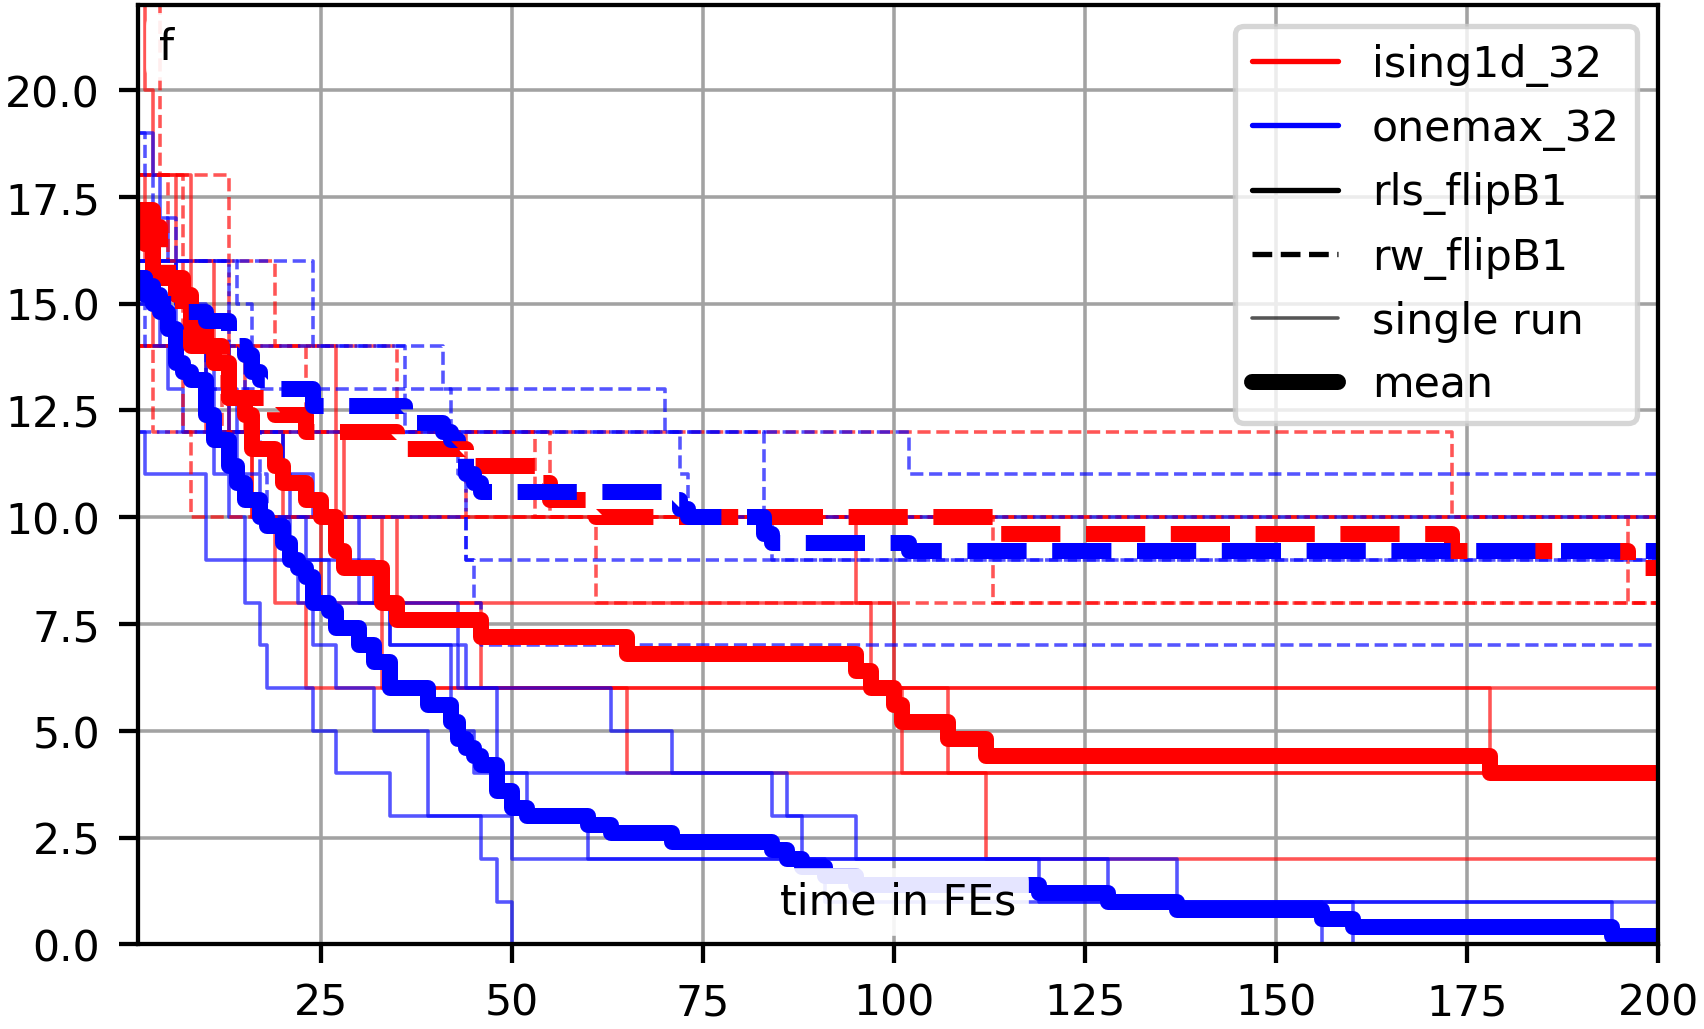
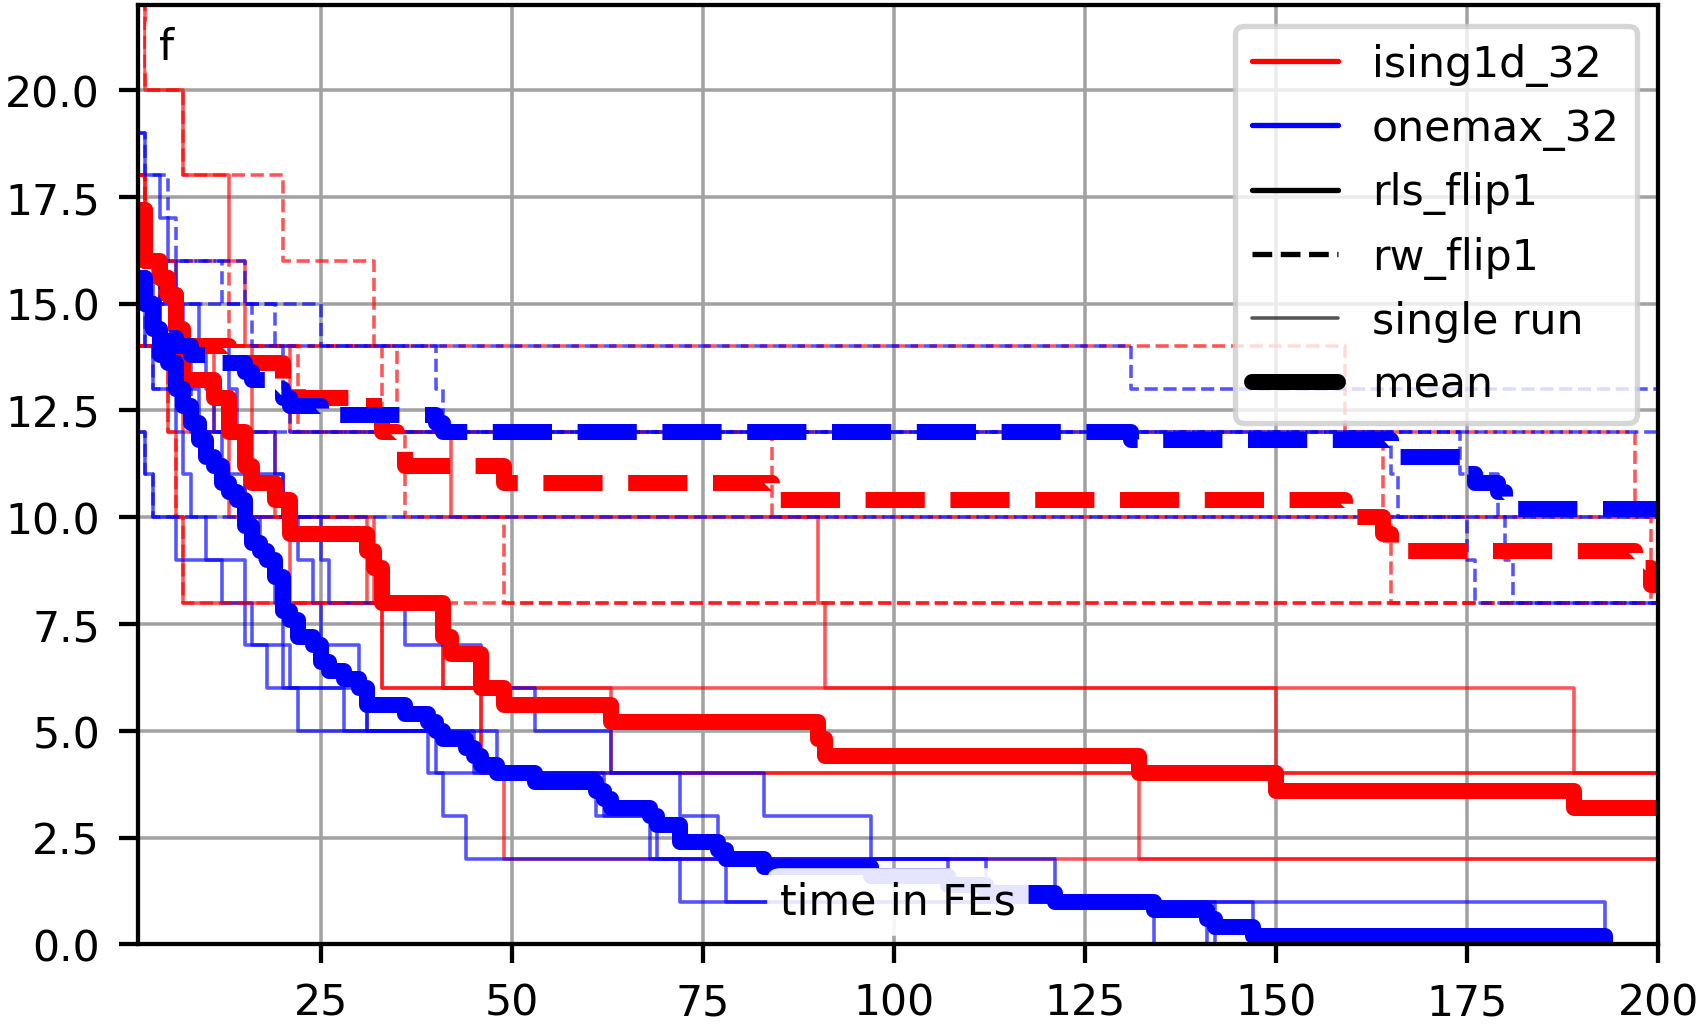
further improvements and added ERT plot example

diff --git a/examples/ert_plot.py b/examples/ert_plot.py
@@ -1,57 +1,40 @@
 """
-We execute an experiment with 2 algorithms on 1 problem and plot the ECDFs.
+We execute an experiment with 2 algorithms on 1 problem and plot the ERTs.
 
-An ECDF plot illustrates the fraction of problem instances that an algorithm
-has solved over time.
-Its highest value is 1, its lowest value is 0.
-If you execute 10 runs of your algorithm on two problems each, the ECDF curves
-can take on (2*10 + 1) = 21 different values from [0, 1].
-If all of your runs succeed in reaching the goal objective value and the
-slowest run does so after T2 time units, then the ECDF becomes 1 for time=T2.
-The ECDF remains 0 until the time T1 when the fastest run has solved its
-corresponding problem instance.
-Between T1 and T2, the ECDF is monotonously rising.
+The (empiricially estimated) Expected Running Time - or ERT for short - gives
+us an impression how long an optimization algorithm will need to reach a
+certain goal quality for a given optimization problem instance.
 
-If can happen that an ECDF never reaches 1.
-For example, in our two-problem situation described above, it could be that
-our algorithm can only solve the first problem (all 10 runs succeed), but
-never the second problem (all 10 runs fail).
-Then, the ECDF will reach 0.5 but no higher value.
+If we apply an algorithm once to a problem instance, it will randomly start
+at a rather bad solution quality. It will then step by step improve. We can
+log each improvement in a log file. If we conduct multiple runs of the
+algorithm, we will collect multiple log files from them. For each objective
+value `f` that was reached by any of the runs, we can compute the arithmetic
+mean that it took them to do so. This works well as long as all runs can
+reach `f`. However, especially for better (i.e., small) values of `f`, some
+runs may fail to do so. These runs stop improving earlier. The arithmetic
+mean of the time to read these `f` would go to infinity.
 
-Of course, an algorithm is the better, the faster its ECDF rises and the
-higher it rises.
-In other words, the bigger the area under the ECDF curve, the better.
+Luckily, we can do better than that. We can simply assume that once an
+unsuccessful run terminates, we would directly start a new run afterwards.
+If at least one run in our experiment was successful, this means that the
+probability to reach `f` is larger than zero and if we imagine that we
+keep starting new runs again and again, we will eventually succeed. This is
+the idea behind the ERT. For any goal `f`, it is computed as
 
-There are four tools involved in creating such diagrams:
+  `ERT[f] = Time(fbest >= f) / s`
 
-The module `moptipy.utils.plot_utils` provides the functions for allocating
-and storing figures (named `create_figure` and `save_figure`).
+where `s` is the number of successful runs, i.e., of runs that reached the
+goal `f` and `Time(fbest >= f)` is the sum of the runtime of all runs that
+was spent until the objective value reached `f` (or the run terminated).
 
-The module `moptipy.evaluation.progress` includes the class `Progress`.
-An instance `Progress` represents a two-dimensional progress curve of a
-single run.
-Its time dimensions can either be `FEs` or `ms`. In the former case, it
-records the time in objective function evaluations (FEs) and in the latter
-case, it records them in milliseconds.
-Its objective dimension can either be `plainF`, `scaledF` or `normalizedF`,
-but for ECDFs, we would usually keep them `plainF`.
+An ERT plot plots the ERT for all objective values `f` encountered during
+a set of runs. It is therefore a curve that grows for shrinking `f`.
 
-The module `moptipy.evaluation.ecdf` includes the class `Ecdf`.
-An instance `Ecdf` represents a two-dimensional ECDF curve.
-It can be constructed from a selection of `Progress` objects.
-Matter of fact, a whole sequence of ECDF curves can automatically be
-generated from a sequence of `Progress` objects, which are automatically
-grouped by algorithm.
-
-Finally, the module `moptipy.evaluation.plot_ecdf_impl` provides the
-function `plot_ecdf`. This function accepts a sequence contain `Ecdf` objects
-and illustrates them automatically. It will automatically choose axis labels,
-colors, and group and order the data in a way that it deems reasonable.
-
-In this file, we will use all the above tools.
-We will run a small experiment, parse the resulting log files, and then
-illustrate different groupings and selections of the data.
-We will create svg figures and open them in the web browser for viewing.
+In this example, we apply both a randomized local search and a random walk
+to the 12-bit OneMax problem. We grant each of them 100 FEs and perform
+21 runs per setup. We then plot the ERT in terms of the expected number of
+objective function evaluations (FEs) over the objective values (`f`).
 """
 import os
 from time import sleep
@@ -64,8 +47,8 @@ from moptipy.algorithms.rls import RLS
 from moptipy.api.execution import Execution
 from moptipy.api.experiment import run_experiment
 from moptipy.evaluation.axis_ranger import AxisRanger
-from moptipy.evaluation.ecdf import Ecdf
-from moptipy.evaluation.plot_ecdf_impl import plot_ecdf
+from moptipy.evaluation.ert import Ert
+from moptipy.evaluation.plot_ert_impl import plot_ert
 from moptipy.evaluation.progress import Progress
 from moptipy.examples.bitstrings.onemax import OneMax
 from moptipy.operators.bitstrings.op0_random import Op0Random
@@ -84,8 +67,8 @@ ns = lambda prc: False if prc is None else (  # noqa: E731
 # should we show the plots?
 SHOW_PLOTS_IN_BROWSER = not ns(psutil.Process(os.getppid()))
 
-# We try to solve only the 8-bit OneMax problem
-problems = [lambda: OneMax(8)]
+# We try to solve only the 16-bit OneMax problem
+problems = [lambda: OneMax(16)]
 
 
 def make_rls(problem) -> Execution:
@@ -100,8 +83,8 @@ def make_rls(problem) -> Execution:
     ex.set_objective(problem)
     ex.set_algorithm(RLS(  # create RLS that
         Op0Random(),  # starts with a random bit string and
-        Op1Flip1()))  # flip exactly one bit
-    ex.set_max_fes(256)  # permit 256 FEs
+        Op1Flip1()))  # flips exactly one bit
+    ex.set_max_fes(100)  # the maximum FEs
     ex.set_log_improvements(True)  # log the progress!
     return ex
 
@@ -120,7 +103,7 @@ def make_random_walk(problem) -> Execution:
         RandomWalk(  # create a random walk that
             Op0Random(),  # starts with a random bit string and
             Op1Flip1()))  # flip exactly one bit
-    ex.set_max_fes(256)  # permit 256 FEs
+    ex.set_max_fes(100)  # the maximum FEs
     ex.set_log_improvements(True)  # log the progress!
     return ex
 
@@ -134,7 +117,7 @@ with TempDir.create() as td:  # create temporary directory `td`
                    instances=problems,  # define the problem instances
                    setups=[make_rls,  # provide RLS run creator
                            make_random_walk],  # provide random walk creator
-                   n_runs=31,  # we will execute 31 runs per setup
+                   n_runs=21,  # we will execute 71 runs per setup
                    n_threads=1)  # we use only a single thread here
     # Once we arrived here, the experiment with 2*1*31 = 62 runs has completed.
 
@@ -143,18 +126,16 @@ with TempDir.create() as td:  # create temporary directory `td`
                        consumer=data.append,  # put the data into data
                        time_unit="FEs",  # time is in FEs (as opposed to "ms")
                        f_name="plainF")  # use raw, unscaled objective values
-    ecdf = []  # we will load the ECDFs into this list
-    # The below function uses the goal objective values from the log files to
-    # compute the ECDF functions. It groups all runs of one algorithm together
-    # and then computes the algorithm's overall ECDF.
-    Ecdf.from_progresses(data, ecdf.append)
+    ert = []  # we will load the ERT into this list
+    # The below function groups all runs of one algorithm and instance
+    # together and then computes the ERT.
+    Ert.from_progresses(data, ert.append)
 
-    # Plot the ECDF functions.
+    # Plot the ERT functions.
     # This function will automatically pick the labels of the axes and choose
     # that the horizontal axis (FEs) be log-scaled.
     fig = create_figure(width=4)  # create an empty, 4"-wide figure
-    plot_ecdf(ecdfs=ecdf,  # plot all the data
-              figure=fig)  # into the figure
+    plot_ert(erts=ert, figure=fig)  # plot all the data into the figure
     # Notice that save_figure returns a list of files that has been generated.
     # You can specify multiple formats, e.g., ("svg", "pdf", "png") and get
     # multiple files.
@@ -163,24 +144,23 @@ with TempDir.create() as td:  # create temporary directory `td`
     # other files we generate to this list and, in the end, display all of them
     # in the web browser.
     files = save_figure(fig=fig,  # store fig to a file
-                        file_name="ecdf_over_log_fes",  # base name
+                        file_name="log_ert_over_f",  # base name
                         dir_name=td,  # store graphic in temp dir
                         formats=("svg", "png", "pdf"))  # file types
     del fig  # dispose figure
 
     # Plot the ECDF functions, but this time do not log-scale the x-axis.
     fig = create_figure(width=4)  # create an empty, 4"-wide figure
-    plot_ecdf(ecdfs=ecdf,  # plot all the data
-              figure=fig,  # into the figure
-              x_axis=AxisRanger.for_axis("FEs", log_scale=False))
+    plot_ert(erts=ert, figure=fig,  # plot all the data into the figure
+             y_axis=AxisRanger.for_axis("FEs", log_scale=False))
     # This time, we save the image only as svg.
     files.extend(save_figure(fig=fig,  # store fig to a file
-                             file_name="ecdf_over_fes",  # base name
+                             file_name="ert_over_fes",  # base name
                              dir_name=td,  # store graphic in temp dir
                              formats="svg"))  # file type: this time only svg
     del fig  # dispose figure
 
-    # OK, we have now plotted a set of different ECDF plots.
+    # OK, we have now plotted a set of different ERT plots.
     # We will open them in the web browser if we are not in a make build.
     if SHOW_PLOTS_IN_BROWSER:
         for file in files:  # for each file we generated

diff --git a/moptipy/evaluation/plot_ert_impl.py b/moptipy/evaluation/plot_ert_impl.py
@@ -36,10 +36,10 @@ def plot_ert(erts: Iterable[Ert],
              pd.importance_to_font_size,
              xgrid: bool = True,
              ygrid: bool = True,
-             xlabel: Union[None, str, Callable[[str], str]] = lambda x: x[0],
+             xlabel: Union[None, str, Callable[[str], str]] = Lang.translate,
              xlabel_inside: bool = True,
              ylabel: Union[None, str, Callable[[str], str]] =
-             Lang.translate_func("ECDF"),
+             Lang.translate_func("ERT"),
              ylabel_inside: bool = True,
              inst_priority: float = 0.666,
              algo_priority: float = 0.333) -> None:
@@ -116,10 +116,10 @@ def plot_ert(erts: Iterable[Ert],
 
     # First, we try to find groups of data to plot together in the same
     # color/style.
-    instances: Final[Styler] = Styler(get_instance, "all insts",
-                                      inst_priority)
-    algorithms: Final[Styler] = Styler(get_algorithm, "all algos",
-                                       algo_priority)
+    instances: Final[Styler] = Styler(
+        get_instance, Lang.translate("all_insts"), inst_priority)
+    algorithms: Final[Styler] = Styler(
+        get_algorithm, Lang.translate("all_algos"), algo_priority)
     x_dim: Optional[str] = None
     y_dim: Optional[str] = None
     source: List[Ert] = cast(List[Ert], erts) if isinstance(erts, list) \

diff --git a/examples/progress_plot.py b/examples/progress_plot.py
@@ -61,7 +61,7 @@ from moptipy.evaluation.stat_run import StatRun
 from moptipy.examples.bitstrings.ising1d import Ising1d
 from moptipy.examples.bitstrings.onemax import OneMax
 from moptipy.operators.bitstrings.op0_random import Op0Random
-from moptipy.operators.bitstrings.op1_m_over_n_flip import Op1MoverNflip
+from moptipy.operators.bitstrings.op1_flip1 import Op1Flip1
 from moptipy.spaces.bitstrings import BitStrings
 from moptipy.utils.plot_utils import create_figure, save_figure
 from moptipy.utils.temp import TempDir
@@ -93,7 +93,7 @@ def make_rls(problem) -> Execution:
     ex.set_objective(problem)
     ex.set_algorithm(RLS(  # create RLS that
         Op0Random(),  # starts with a random bit string and
-        Op1MoverNflip(n=problem.n, m=1)))  # flips each bit with p=1/n
+        Op1Flip1()))  # flip exactly one bit
     ex.set_max_fes(200)  # permit 200 FEs
     ex.set_log_improvements(True)  # log the progress!
     return ex
@@ -112,7 +112,7 @@ def make_random_walk(problem) -> Execution:
     ex.set_algorithm(
         RandomWalk(  # create a random walk that
             Op0Random(),  # starts with a random bit string and
-            Op1MoverNflip(n=problem.n, m=1)))  # flips each bit with p=1/n
+            Op1Flip1()))  # flip exactly one bit
     ex.set_max_fes(200)  # permit 200 FEs
     ex.set_log_improvements(True)  # log the progress!
     return ex

diff --git a/moptipy/evaluation/ert.py b/moptipy/evaluation/ert.py
@@ -1,4 +1,9 @@
-"""Approximate the expected running time to reach certain goals."""
+"""
+Approximate the expected running time to reach certain goals.
+
+The (empirically estimated) Expected Running Time (ERT) tries to give an
+impression of how long an algorithm needs to reach a certain solution quality.
+"""
 
 from dataclasses import dataclass
 from math import isfinite, inf
@@ -25,6 +30,13 @@ def compute_single_ert(source: Iterable[Progress],
                        goal_f: Union[int, float]) -> float:
     """
     Compute a single ERT.
+
+    The ERT is the sum of the time that the runs spend with a
+    best-so-far quality greater or equal than `goal_f` divided by the
+    number of runs that reached `goal_f`. The idea is that the
+    unsuccessful runs spent their complete computational budget and
+    once they have terminated, we would immediately start a new,
+    independent run.
 
     :param source: the source array
     :param goal_f: the goal objective value

diff --git a/README.md b/README.md
@@ -20,9 +20,11 @@
   - [Progress Plots](#52-progress-plots)
   - [ECDF Plots](#53-ecdf-plots)
   - [End Results Plots](#54-end-results-plot)
-  - [End Results Tables](#55-end-results-table)
-- [License](#6-license)
-- [Contact](#7-contact)
+  - [Expected Running Time Plots](#55-expected-running-time-ert-plots)
+  - [End Results Tables](#56-end-results-table)
+- [Uselful Links and References](#6-useful-links-and-references)
+- [License](#7-license)
+- [Contact](#8-contact)
 
 
 ## 1. Introduction
@@ -1180,13 +1182,44 @@ It will use the goal objective values `g` from the log files to scale all object
 Ofcourse you can also use it to plot raw objective values, or even runtimes if you wish.
 
 <a href="https://thomasweise.github.io/moptipy/_static/end_results_scaled.png">
-<img alt="Example for an ECDF plot combining statistics and single runs" src="https://thomasweise.github.io/moptipy/_static/end_results_scaled.png" style="width:70%;max-width:70%;min-width:70%" />
+<img alt="Example for an end result plot" src="https://thomasweise.github.io/moptipy/_static/end_results_scaled.png" style="width:70%;max-width:70%;min-width:70%" />
 </a>
 
 The end result plots are implemented in the module [moptipy.evaluation.plot_end_results_impl](https://thomasweise.github.io/moptipy/moptipy.evaluation.html#module-moptipy.evaluation.plot_end_results_impl).
 
 
-### 5.5. End Results Table
+### 5.5. Expected Running Time (ERT) Plots
+
+In the file [examples/ert_plot.py](./examples/ert_plot.html), you can find some code running a small experiment and creating ERT plots.
+Basically, it illustrates an estimation of the runtime that it would take in expectation to reach certain objective values.
+The objective values are therefore printed on the horizontal axis and the vertical axis associates an expected running time to them.
+This expectation is estimated based on the idea of iterated runs:
+Assume that you conduct an experiment with 100 runs.
+Now you want to know how long your algorithm needs in expectation to reach a certain goal quality `f`.
+However, you are unlucky:
+Only 30 of your runs actually reached `f`, the rest of them converged to a worse solution and stopped improving before being finally terminated.
+To compute the ERT, we simply assume that if a run did not succeed, we would have directly restarted our algorithm and performed a new, independent run right away.
+Each time we start a run, the chance to succeed is 30% as 30 of our 100 runs managed to find a solution with a quality no worse than `f`.
+We would do this until we finally succeed.
+This means that as long as at least one of our runs succeeded in the experiment, we can compute a finite ERT.
+
+For any goal `f`, the `ERT` is computed as
+
+  `ERT[f] = Time(fbest >= f) / s`
+
+where `s` is the number of successful runs, i.e., of runs that reached the  goal `f` and `Time(fbest >= f)` is the sum of the runtime of all runs that  was spent until the objective value reached `f` (or the run terminated).
+
+Equipped with this understanding, we can now compute the ERT for every single objective value that was reached by any of our runs.
+This way, we will get a diagram similar to the one below:
+
+<a href="https://thomasweise.github.io/moptipy/_static/log_ert_over_f.png">
+<img alt="Example for an ERT plot of RLS and Random Walk on OneMax with 12 bits." src="https://thomasweise.github.io/moptipy/_static/log_ert_over_f.png" style="width:70%;max-width:70%;min-width:70%" />
+</a>
+
+The (empirically estimated) Expected Running Time (ERT) is nicely explained in the report [*Real-Parameter Black-Box Optimization Benchmarking 2010: Experimental Setup*](https://hal.inria.fr/inria-00462481/document/).
+
+
+### 5.6. End Results Table
 
 In the file [examples/end_results_table.py](./examples/end_results_table.html), you can find some code running a small experiment and creating an "end results table."
 Such a table allows you to display statistics summarizing the performance of your algorithms over several problem instances.
@@ -1266,13 +1299,23 @@ summary&&rs&1.091&1.391&1.680&0.232&65.477&5.762\\%
 The end result tables are implemented in the module [moptipy.evaluation.tabulate_end_results_impl](https://thomasweise.github.io/moptipy/moptipy.evaluation.html#module-moptipy.evaluation.tabulate_end_results_impl).
 
 
-## 6. License
+## 6. Useful Links and References
+
+1. Our book on optimization algorithms:
+   Thomas Weise. [*Optimization Algorithms*](https://thomasweise.github.io/oa). Institute of Applied Optimization (应用优化研究所, [IAO](http://iao.hfuu.edu.cn)) of the School of Artificial Intelligence and Big Data ([人工智能与大数据学院](http://www.hfuu.edu.cn/aibd/)) at [Hefei University](http://www.hfuu.edu.cn/english/) ([合肥学院](http://www.hfuu.edu.cn/)) in  Hefei, Anhui, China (中国安徽省合肥市).
+2. Our old book optimization algorithms:
+   Thomas Weise. [*Global Optimization Algorithms - Theory and Application*](http://www.it-weise.de/projects/book.pdf).
+3. A nice discussion of experimentation with (numerical) optimization methods is:
+   Nikolaus Hansen, Anne Auger, Steffen Finck, Raymond Ros. [*Real-Parameter Black-Box Optimization Benchmarking 2010: Experimental Setup*](https://hal.inria.fr/inria-00462481/document/). [Research Report] RR-7215, INRIA. 2010. inria-00462481
+
+
+## 7. License
 
 The copyright holder of this package is Prof. Dr. Thomas Weise (see [Contact](#7-contact)).
 The package is licensed under the [GNU GENERAL PUBLIC LICENSE, Version 3, 29 June 2007](https://github.com/thomasWeise/moptipy/blob/main/LICENSE).
 
 
-## 7. Contact
+## 8. Contact
 
 If you have any questions or suggestions, please contact
 Prof. Dr. [Thomas Weise](http://iao.hfuu.edu.cn/5) (汤卫思教授) of the 
